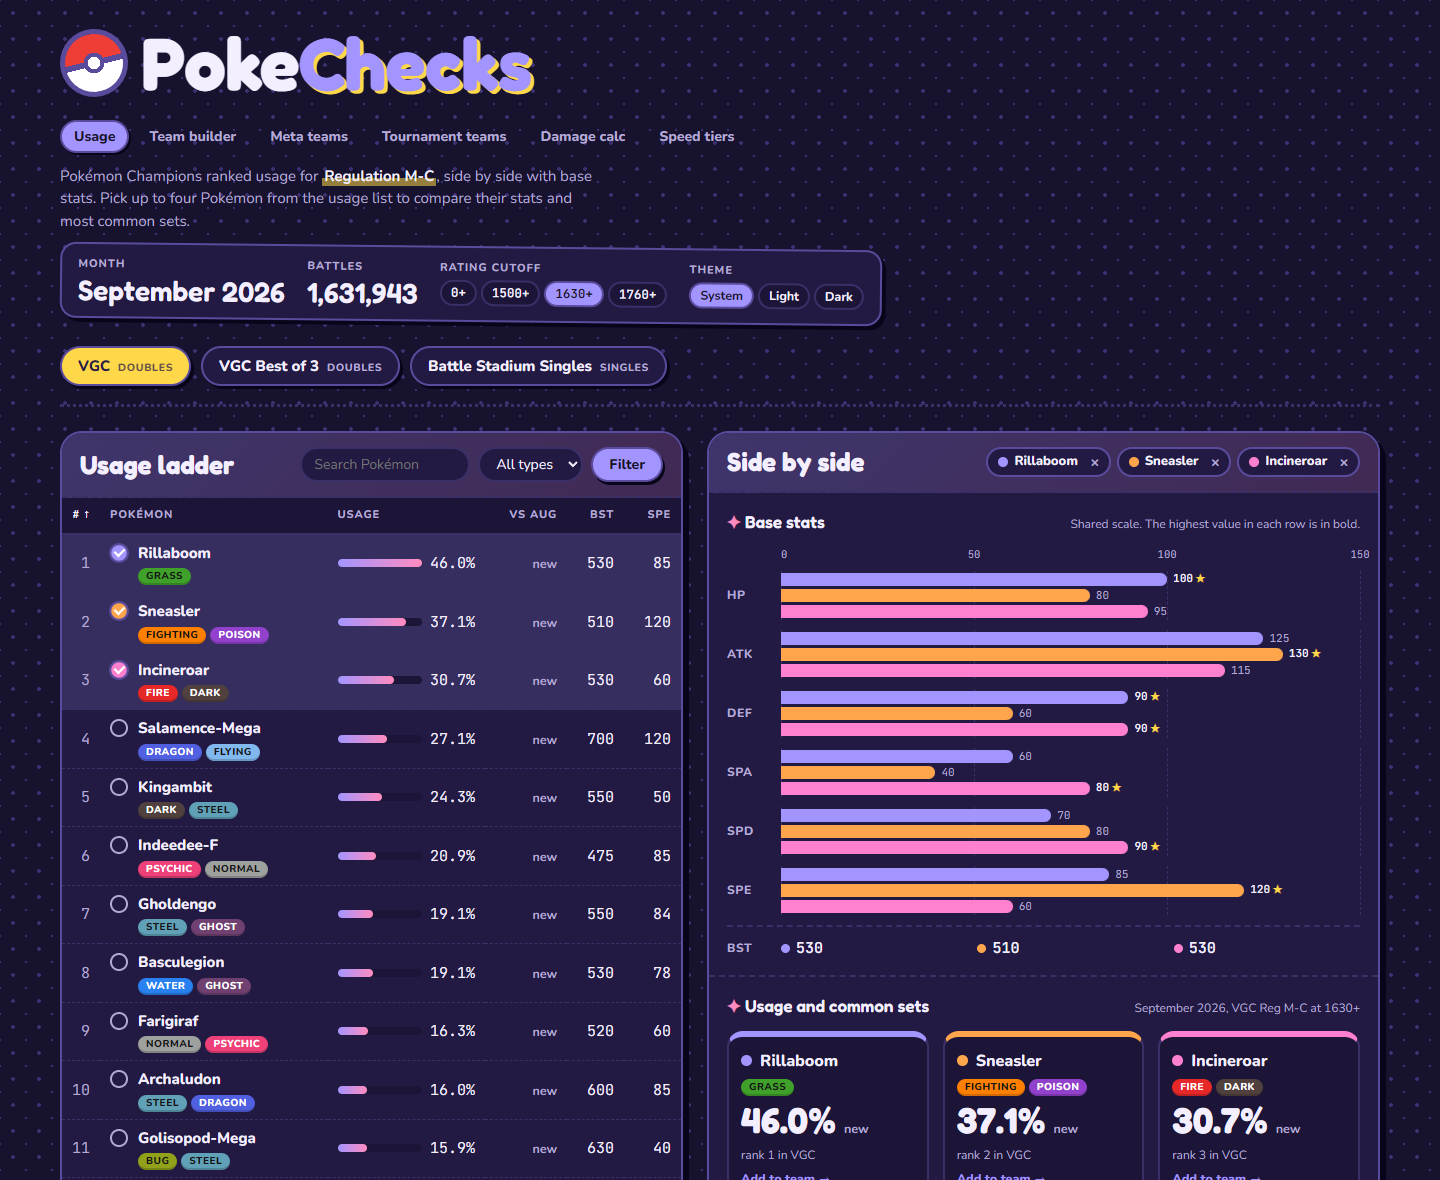
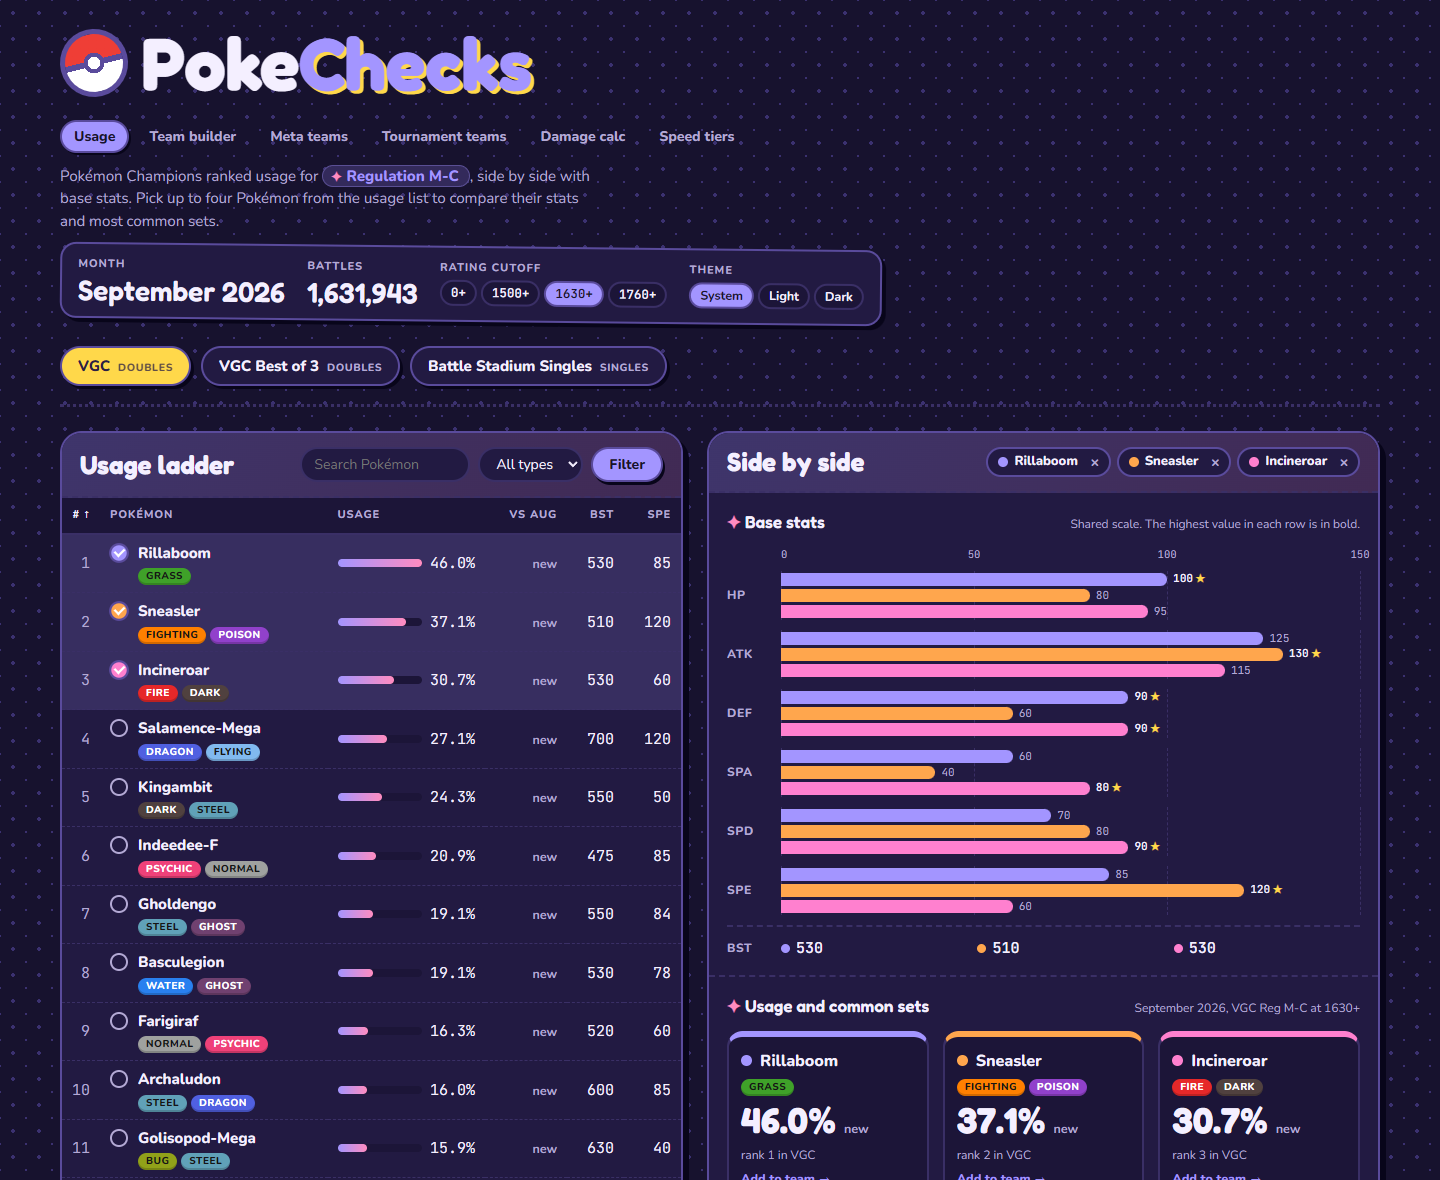
Show the regulation in a pill instead of a yellow highlight
The regulation name in each page's description now sits in a soft purple
pill with a sparkle, matching the site's other chips. Retake the README
screenshots to match.

Changed region(s): [[0.0312, 0.122, 0.4062, 0.2136]]

diff --git a/assets/app.css b/assets/app.css
@@ -97,7 +97,14 @@ h1::before {
 header:hover h1::before { transform: rotate(16deg); }
 h1 span { color: var(--accent); text-shadow: .045em .045em 0 var(--pop); }
 .dek { margin: 12px 0 0; color: var(--muted); max-width: 60ch; text-wrap: pretty; }
-.dek strong { color: var(--ink); background: linear-gradient(transparent 58%, color-mix(in srgb, var(--pop) 55%, transparent) 58%); padding-inline: 2px; }
+/* The regulation name sits in a soft pill with a sparkle, like the site's other chips. */
+.dek strong {
+  display: inline-block; white-space: nowrap; color: var(--accent); font-weight: 800; line-height: 1.35;
+  background: color-mix(in srgb, var(--accent) 13%, var(--panel));
+  border: 1.5px solid color-mix(in srgb, var(--accent) 35%, transparent);
+  border-radius: 999px; padding: 0 10px 0 8px;
+}
+.dek strong::before { content: "✦"; color: var(--pink); margin-right: 5px; font-size: .85em; }
 .ladder-meta {
   display: flex; gap: 18px 22px; flex-wrap: wrap;
   background: var(--panel); border: 2px solid var(--edge); border-radius: var(--r-card);
